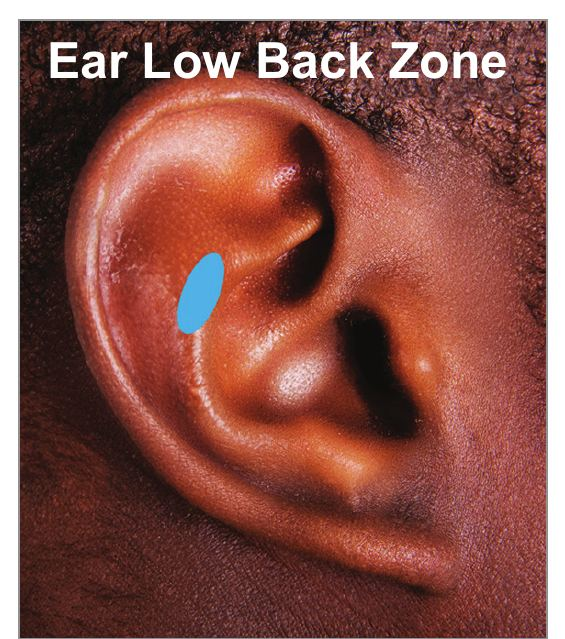
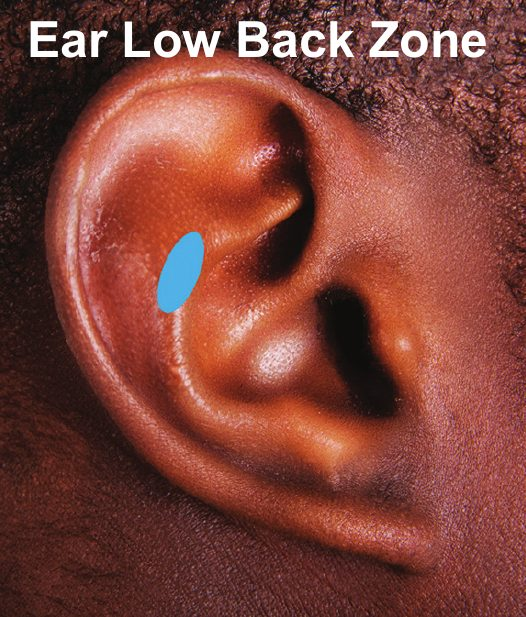
Re-crop all point photos properly, harden back nav, add 3 more routines
The image "fix" in the last commit only changed CSS (object-cover ->
object-contain); it didn't fix the actual source images, which had
wildly inconsistent baked-in crop margins (aspect ratios from 0.76 to
1.94) left over from the original PDF extraction. Switching to
object-contain just made those inconsistencies fully visible instead
of hidden by cropping. Re-rendered the source PDFs and rewrote the
crop step with an auto-trim pass (strip near-white margin, then strip
any thin flat-color border line left over from the original page's
grid layout) so every photo is now tightly cropped with no dead space
and a single clean border. Also caught and fixed a real bug this
surfaced: HT7's original crop box bled into the neighboring "An Mian"
photo on the sleep.pdf page — nobody had visually spot-checked that
specific file before.

Back navigation was still landing on home in some cases: router state
only survives real client-side navigation, so a direct deep link (or
opening a point from anywhere without the routine context) had
nothing to fall back to. PointDetail now falls back to any routine
that contains the point when no state is present, so Back never dead-
ends at home.

Added Menstrual Cramps (SP6, LI4), Cold & Flu (LI4, GB20, LI11), and
Energy & Fatigue (ST36, KD1, GB20) — 5 -> 10 routines total. Same
honest-sourcing pattern as Stress & Anxiety: all built from points
already sourced elsewhere, no new photos, sourceNote instead of a
[…]

diff --git a/src/data/points.ts b/src/data/points.ts
@@ -107,7 +107,7 @@ export const points: Point[] = [
     meridian: 'Large Intestine',
     region: 'hand',
     location: 'On the back of the hand, in the highest point of the muscle when the thumb and index finger are brought together.',
-    useTags: ['headache', 'well_being'],
+    useTags: ['headache', 'well_being', 'menstrual_cramps', 'cold_flu'],
     image: LI4,
     pregnancyCaution: true,
     source: VA_SOURCE,
@@ -130,7 +130,7 @@ export const points: Point[] = [
     meridian: 'Gallbladder',
     region: 'neck',
     location: 'At the base of the skull, in the two hollows on either side of the spine, below the ridge of bone at the back of the head.',
-    useTags: ['headache', 'neck_pain'],
+    useTags: ['headache', 'neck_pain', 'cold_flu', 'energy_fatigue'],
     image: GB20,
     source: VA_SOURCE,
   },
@@ -161,7 +161,7 @@ export const points: Point[] = [
     meridian: 'Kidney',
     region: 'foot',
     location: 'On the sole of the foot, in the hollow that forms about a third of the way down from the base of the toes when they are curled.',
-    useTags: ['headache', 'sleep'],
+    useTags: ['headache', 'sleep', 'energy_fatigue'],
     image: KD1,
     source: VA_SOURCE,
   },
@@ -245,7 +245,7 @@ export const points: Point[] = [
     meridian: 'Spleen',
     region: 'lower leg',
     location: 'On the inside of the lower leg, about four finger-widths above the tip of the inner ankle bone, just behind the shin bone.',
-    useTags: ['sleep', 'well_being'],
+    useTags: ['sleep', 'well_being', 'menstrual_cramps'],
     image: SP6,
     pregnancyCaution: true,
     source: VA_SOURCE,
@@ -268,7 +268,7 @@ export const points: Point[] = [
     meridian: 'Stomach',
     region: 'lower leg',
     location: 'On the outside of the lower leg, about four finger-widths below the kneecap, one finger-width outside the shin bone.',
-    useTags: ['well_being', 'nausea'],
+    useTags: ['well_being', 'nausea', 'energy_fatigue'],
     image: ST36,
     source: VA_SOURCE,
   },
@@ -279,7 +279,7 @@ export const points: Point[] = [
     meridian: 'Large Intestine',
     region: 'elbow',
     location: 'At the outer end of the elbow crease, when the elbow is bent.',
-    useTags: ['well_being'],
+    useTags: ['well_being', 'cold_flu'],
     image: LI11,
     source: VA_SOURCE,
   },

diff --git a/src/data/routines.ts b/src/data/routines.ts
@@ -52,6 +52,30 @@ export const routines: Routine[] = [
     sourceNote:
       'These three points are drawn from the sleep routine above — Yin Tang, HT7, and PC6 are also commonly used for stress and anxiety in Traditional Chinese Medicine. See each point\'s page for its own source.',
   },
+  {
+    id: 'menstrual_cramps',
+    title: 'Menstrual Cramps',
+    description: 'Points traditionally used for menstrual pain (not for use during pregnancy).',
+    pointIds: ['sp6', 'li4'],
+    sourceNote:
+      'Drawn from the sleep and well-being/headache routines above — SP6 and LI4 are two of the most widely cited points for menstrual cramps in Traditional Chinese Medicine (they\'re also the two most commonly cited points to avoid during pregnancy, for the same reason). See each point\'s page for its own source.',
+  },
+  {
+    id: 'cold_flu',
+    title: 'Cold & Flu',
+    description: 'Points traditionally used for congestion and early cold symptoms.',
+    pointIds: ['li4', 'gb20', 'li11'],
+    sourceNote:
+      'Drawn from the headache, neck, and well-being routines above — LI4, GB20, and LI11 are commonly cited together for colds and congestion in Traditional Chinese Medicine. See each point\'s page for its own source.',
+  },
+  {
+    id: 'energy_fatigue',
+    title: 'Energy & Fatigue',
+    description: 'Points traditionally used when feeling drained or sluggish.',
+    pointIds: ['st36', 'kd1', 'gb20'],
+    sourceNote:
+      'Drawn from other routines above — a VA Whole Health document on chemotherapy-induced nausea separately confirms ST36 is "commonly used for gastrointestinal discomfort, nausea and vomiting, and stress and fatigue"; KD1 and GB20 are widely cited alongside it for low energy in Traditional Chinese Medicine. See each point\'s page for its own source.',
+  },
 ];
 
 export const routinesById = Object.fromEntries(routines.map((r) => [r.id, r]));

diff --git a/src/pages/PointDetail.tsx b/src/pages/PointDetail.tsx
@@ -3,6 +3,7 @@ import { AlertTriangle, ChevronDown, ChevronLeft } from 'lucide-react';
 import { Link, Navigate, useLocation, useParams } from 'react-router-dom';
 import { usePregnancy } from '../context/PregnancyContext';
 import { pointsById } from '../data/points';
+import { routines } from '../data/routines';
 
 const TAG_LABELS: Record<string, string> = {
   low_back_pain: 'Low back',
@@ -12,6 +13,9 @@ const TAG_LABELS: Record<string, string> = {
   well_being: 'Well-being',
   nausea: 'Nausea',
   stress_anxiety: 'Stress & anxiety',
+  menstrual_cramps: 'Menstrual cramps',
+  cold_flu: 'Cold & flu',
+  energy_fatigue: 'Energy & fatigue',
 };
 
 export default function PointDetail() {
@@ -24,7 +28,14 @@ export default function PointDetail() {
 
   const blocked = status === 'yes' && point.pregnancyCaution;
   const fromRoutine = (location.state as { fromRoutine?: string } | null)?.fromRoutine;
-  const backTo = fromRoutine ? `/routine/${fromRoutine}` : '/';
+  // Falls back to any routine containing this point (never home) — covers
+  // hard reloads and direct deep links, where router state isn't available.
+  const fallbackRoutine = routines.find((r) => r.pointIds.includes(point.id));
+  const backTo = fromRoutine
+    ? `/routine/${fromRoutine}`
+    : fallbackRoutine
+      ? `/routine/${fallbackRoutine.id}`
+      : '/';
 
   return (
     <div>

diff --git a/src/pages/Home.tsx b/src/pages/Home.tsx
@@ -1,4 +1,16 @@
-import { Activity, Brain, Feather, Frown, HeartPulse, Moon, Move, type LucideIcon } from 'lucide-react';
+import {
+  Activity,
+  Battery,
+  Brain,
+  Feather,
+  Flower2,
+  Frown,
+  HeartPulse,
+  Moon,
+  Move,
+  Thermometer,
+  type LucideIcon,
+} from 'lucide-react';
 import { motion } from 'motion/react';
 import { Link } from 'react-router-dom';
 import { routines } from '../data/routines';
@@ -12,6 +24,9 @@ const ROUTINE_ICONS: Record<UseTag, LucideIcon> = {
   well_being: HeartPulse,
   nausea: Frown,
   stress_anxiety: Feather,
+  menstrual_cramps: Flower2,
+  cold_flu: Thermometer,
+  energy_fatigue: Battery,
 };
 
 export default function Home() {

diff --git a/src/types.ts b/src/types.ts
@@ -5,7 +5,10 @@ export type UseTag =
   | 'sleep'
   | 'well_being'
   | 'nausea'
-  | 'stress_anxiety';
+  | 'stress_anxiety'
+  | 'menstrual_cramps'
+  | 'cold_flu'
+  | 'energy_fatigue';
 
 export interface Point {
   id: string;

diff --git a/README.md b/README.md
@@ -6,10 +6,11 @@ points with photos and plain-language locations.
 
 ## v1 scope
 
-25 points across 7 routines (low back, headaches, neck, sleep, well-being, nausea, stress &
-anxiety), sourced entirely from public-domain VA patient education handouts (see `sources/`).
-The last two routines don't have their own dedicated VA handout — they reuse points already
-sourced for sleep/well-being that are also commonly used for nausea and stress (cross-checked
+25 points across 10 routines (low back, headaches, neck, sleep, well-being, nausea, stress &
+anxiety, menstrual cramps, cold & flu, energy & fatigue), sourced entirely from public-domain
+VA patient education handouts (see `sources/`). Five of the ten routines don't have their own
+dedicated VA handout — they reuse points already sourced for the other five that are also
+commonly cited for these symptoms (cross-checked
 against a non-federal source for point selection only, never copied for wording or images — see
 each point's own `source` field). No backend — all data is static JSON/TS, bundled for offline
 use via a service worker.
